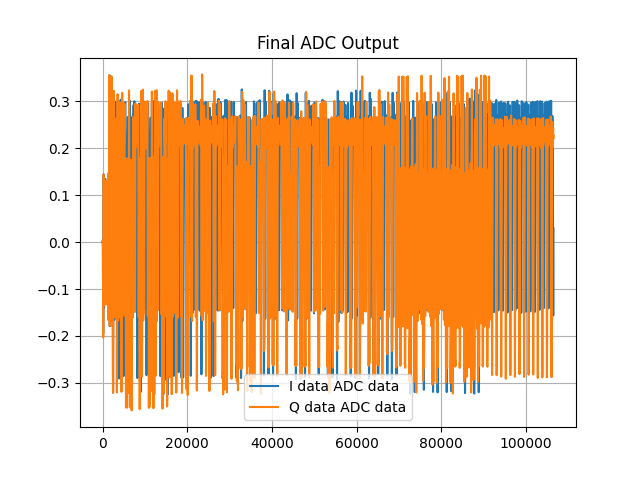
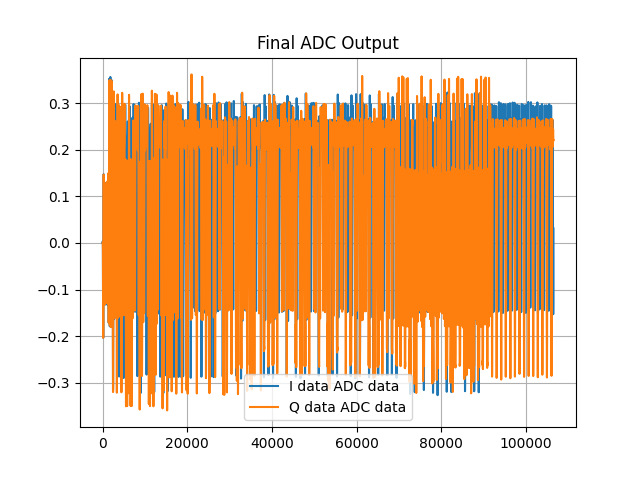
just

diff --git a/QPSK_sim.py b/QPSK_sim.py
@@ -625,8 +625,11 @@ ADC_IN =[]
 for i in FIFO:
     TX = Modulate(i)
 
-    Noise = np.random.randint(0,10,size= (len(TX)))
-    Noise = Noise * (TX.max() / 100)
+    Noise = np.random.randint(0,10,size= (len(TX))) / 10
+    Noise = Noise * (max(TX)/10)
+    print('Signal power',max(TX))
+    print('Noise power',max(Noise) )
+    print('SNR:',max(TX)/max(Noise))
     TX = TX + Noise
     plt.cla()
     plt.plot(TX,label = 'TX')
@@ -636,18 +639,22 @@ for i in FIFO:
     plt.show(block = False)
     input()
 
+    try:
+            
 
-    RX = Demodulate(TX).split('::')
-    RX_SRC, RX_USER_DATA, RX_DES, RX_CS = RX[1],RX[2],RX[3],RX[4]
-    RX_ETH_DATA = SRC+'::'+USER_DATA+'::'+DES
-    CS = Find_CheckSum(RX_ETH_DATA)
-    print(RX)
+        RX = Demodulate(TX).split('::')
+        RX_SRC, RX_USER_DATA, RX_DES, RX_CS = RX[1],RX[2],RX[3],RX[4]
+        RX_ETH_DATA = SRC+'::'+USER_DATA+'::'+DES
+        CS = Find_CheckSum(RX_ETH_DATA)
+        #print(RX)
 
-    if (CS == int(RX_CS)):
-        print('Recived Data Checksum mached !')
-        print(f'SRC:{RX_SRC}')
-        print(f'DES:{RX_DES}')
-        print(f'User Data: {RX_USER_DATA}')
+        if (CS == int(RX_CS)):
+            print('Recived Data Checksum mached !')
+            print(f'SRC:{RX_SRC}')
+            print(f'DES:{RX_DES}')
+            print(f'User Data: {RX_USER_DATA}')
 
-    else :
-        print('Checksum Mismatch!!!')
+        else :
+            print('Checksum Mismatch!!!')
+    except :
+        print(RX)
